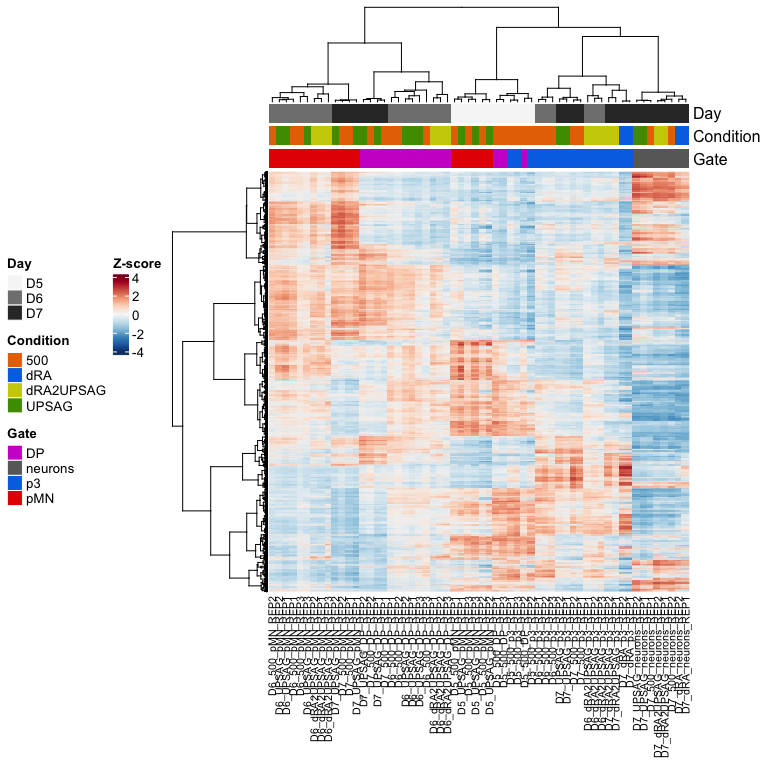
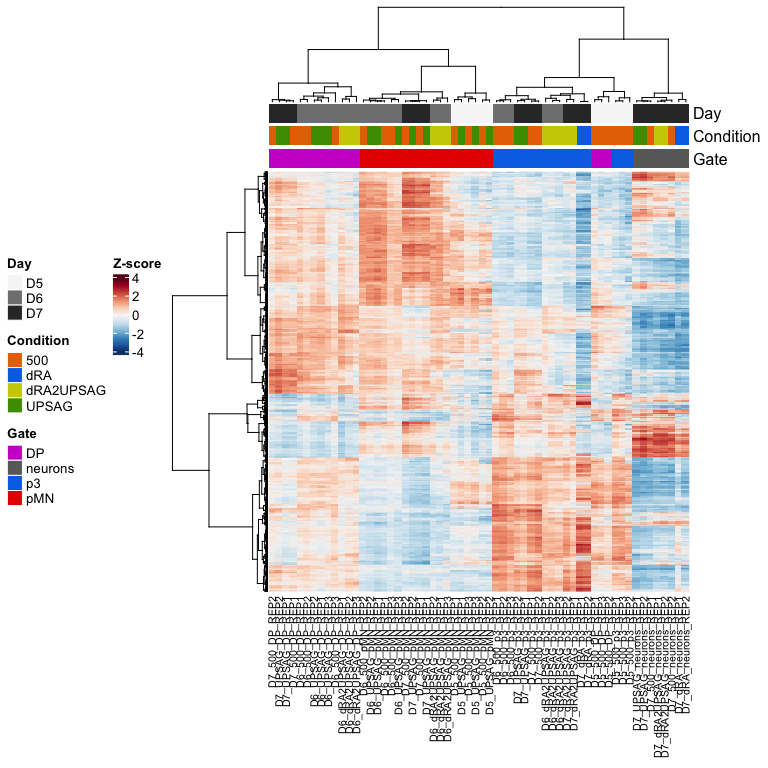
ATAC DP specific

diff --git a/r_files/DPCaTSATAC_4_diffexpression_import.md b/r_files/DPCaTSATAC_4_diffexpression_import.md
@@ -285,16 +285,130 @@ draw(hmap,
 
 ![](DPCaTSATAC_4_diffexpression_import_files/figure-gfm/unnamed-chunk-6-1.png)<!-- -->
 
-#### Which genes are shared?
+#### DP-specific things?
 
 ``` r
-p3_vs_DP <- intersect(intersect(top_domain_comparisons[top_domain_comparisons$Comparison=="_500__D7_Gate_p3_vs_DP","Geneid"],
-top_domain_comparisons[top_domain_comparisons$Comparison=="_dRA2UPSAG__D6_Gate_p3_vs_DP","Geneid"]),
-top_domain_comparisons[top_domain_comparisons$Comparison=="_UPSAG__D7_Gate_p3_vs_DP","Geneid"])
+generous_domain_comparisons <- results_deseq_domain %>%
+  as.data.frame() %>%
+  filter(padj < adjusted_pval & abs(log2FoldChange) > 0 & baseMean > minBaseMean)
 
-DP_vs_pMN <- intersect(top_domain_comparisons[top_domain_comparisons$Comparison=="_500__D7_Gate_DP_vs_pMN","Geneid"],
-top_domain_comparisons[top_domain_comparisons$Comparison=="_dRA2UPSAG__D6_Gate_DP_vs_pMN","Geneid"])
+
+p3_vs_DP <- union(generous_domain_comparisons[generous_domain_comparisons$Comparison=="_500__D7_Gate_p3_vs_DP","Geneid"],
+generous_domain_comparisons[generous_domain_comparisons$Comparison=="_500__D6_Gate_p3_vs_DP","Geneid"])
+
+DP_vs_pMN <- union(generous_domain_comparisons[generous_domain_comparisons$Comparison=="_500__D7_Gate_DP_vs_pMN","Geneid"],
+generous_domain_comparisons[generous_domain_comparisons$Comparison=="_500__D6_Gate_DP_vs_pMN","Geneid"])
 ```
+
+``` r
+gene_subset <- intersect(p3_vs_DP,DP_vs_pMN)
+
+# filter elements
+vsd_hm <- count_vsd %>%
+  filter(X %in% gene_subset) %>%
+  column_to_rownames("X") %>%
+  select(!contains("_neur_"))
+
+dim(vsd_hm)
+```
+
+    ## [1] 2477   60
+
+``` r
+# z score
+vsd_hm_z <- t(scale(t(vsd_hm))) 
+
+
+names(color_gates) <- sorted_gate
+names(colors_conditions) <- sorted_conditions
+
+# metadata for the heatmap
+genecolData_first <- data.frame(Sample_ID = colnames(vsd_hm))
+
+genecolData_first <- genecolData_first %>% 
+  separate(Sample_ID,into=c("Day","Condition","Gate","Rep"), sep="_", remove=FALSE) 
+
+genecolData_first <- as.data.frame(unclass(genecolData_first))
+
+phen_data <- genecolData_first %>%
+  select(c("Sample_ID","Day","Condition","Gate")) %>%
+  remove_rownames() %>%
+  column_to_rownames("Sample_ID")
+ann_color_JD <- list(Gate=color_gates, Condition=colors_conditions,
+    Day = c(D5="#f6f6f6",D6="#808080",D7="#333333"))
+
+# Annotated heatmap with selected colors
+hm_colors = colorRampPalette(rev(brewer.pal(n = 11, name = "RdBu")))(100)
+
+
+# Build the annotation for the complex heatmap
+colAnn <- HeatmapAnnotation(
+    df = phen_data,
+    which = 'col', # 'col' (samples) or 'row' (gene) annotation?
+    na_col = 'white', # default colour for any NA values in the annotation data-frame, 'ann'
+    col = ann_color_JD,
+    annotation_height = 0.6,
+    annotation_width = unit(1, 'cm'),
+    gap = unit(1, 'mm'))
+
+
+
+hmap <- Heatmap(vsd_hm_z,
+
+    name = 'Z-score',
+
+    col = hm_colors,
+
+    # row (gene) parameters
+      cluster_rows = TRUE,
+      show_row_dend = TRUE,
+      #row_title = 'Statistically significant genes',
+      row_title_side = 'left',
+      row_title_gp = gpar(fontsize = 12,  fontface = 'bold'),
+      row_title_rot = 90,
+      show_row_names = FALSE,
+      row_names_gp = gpar(fontsize = 10, fontface = 'bold'),
+      row_names_side = 'left',
+      row_dend_width = unit(25,'mm'),
+
+    # column (sample) parameters
+      cluster_columns = TRUE,
+      show_column_dend = TRUE,
+      column_title = '',
+      column_title_side = 'bottom',
+      column_title_gp = gpar(fontsize = 12, fontface = 'bold'),
+      column_title_rot = 0,
+      show_column_names = TRUE,
+      column_names_gp = gpar(fontsize = 8),
+      column_names_max_height = unit(10, 'cm'),
+      column_dend_height = unit(25,'mm'),
+
+    # cluster methods for rows and columns
+      clustering_distance_columns = function(x) as.dist(1 - cor(t(x))),
+      clustering_method_columns = 'ward.D2',
+      clustering_distance_rows = function(x) as.dist(1 - cor(t(x))),
+      clustering_method_rows = 'ward.D2',
+
+    # specify top and bottom annotations
+      top_annotation = colAnn)
+```
+
+    ## `use_raster` is automatically set to TRUE for a matrix with more than
+    ## 2000 rows. You can control `use_raster` argument by explicitly setting
+    ## TRUE/FALSE to it.
+    ## 
+    ## Set `ht_opt$message = FALSE` to turn off this message.
+
+Even when looking for DP specific things… very hard.
+
+``` r
+draw(hmap,
+    heatmap_legend_side = 'left',
+    annotation_legend_side = 'left',
+    row_sub_title_side = 'left')
+```
+
+![](DPCaTSATAC_4_diffexpression_import_files/figure-gfm/unnamed-chunk-7-1.png)<!-- -->
 
 ### How many diff acc elements between timepoints?
 
@@ -433,7 +547,7 @@ draw(hmap,
     row_sub_title_side = 'left')
 ```
 
-![](DPCaTSATAC_4_diffexpression_import_files/figure-gfm/unnamed-chunk-7-1.png)<!-- -->
+![](DPCaTSATAC_4_diffexpression_import_files/figure-gfm/unnamed-chunk-8-1.png)<!-- -->
 
 ## Plot number of elements changing between domains and over time
 
